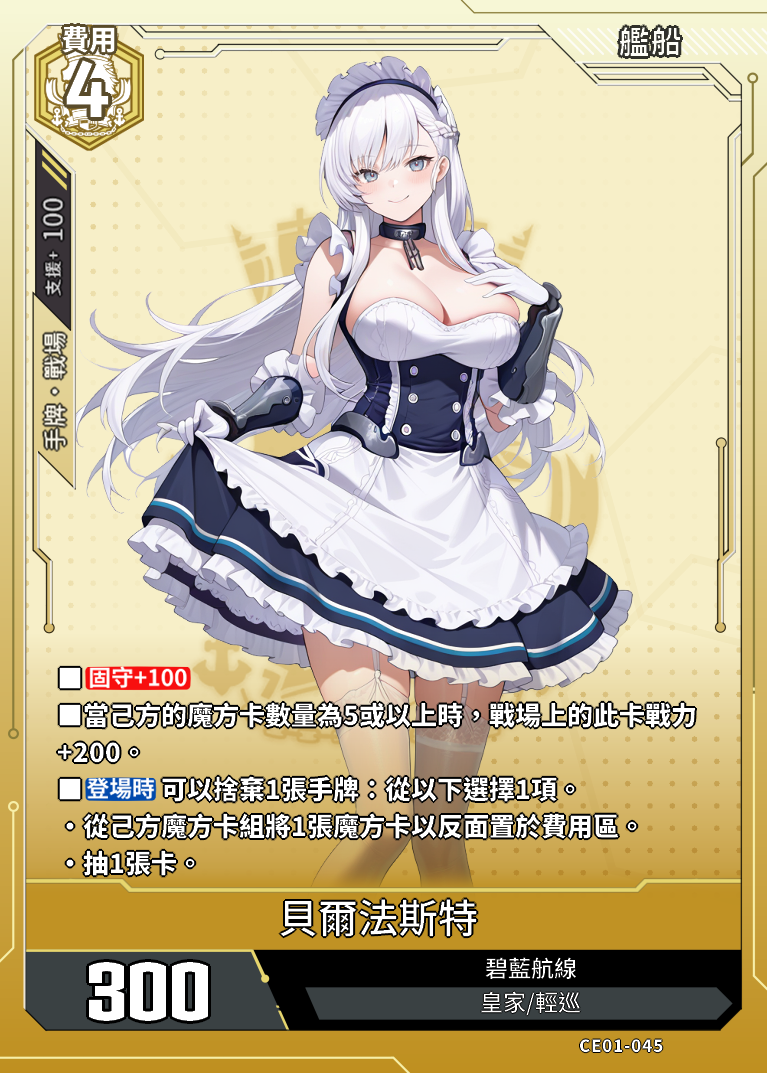
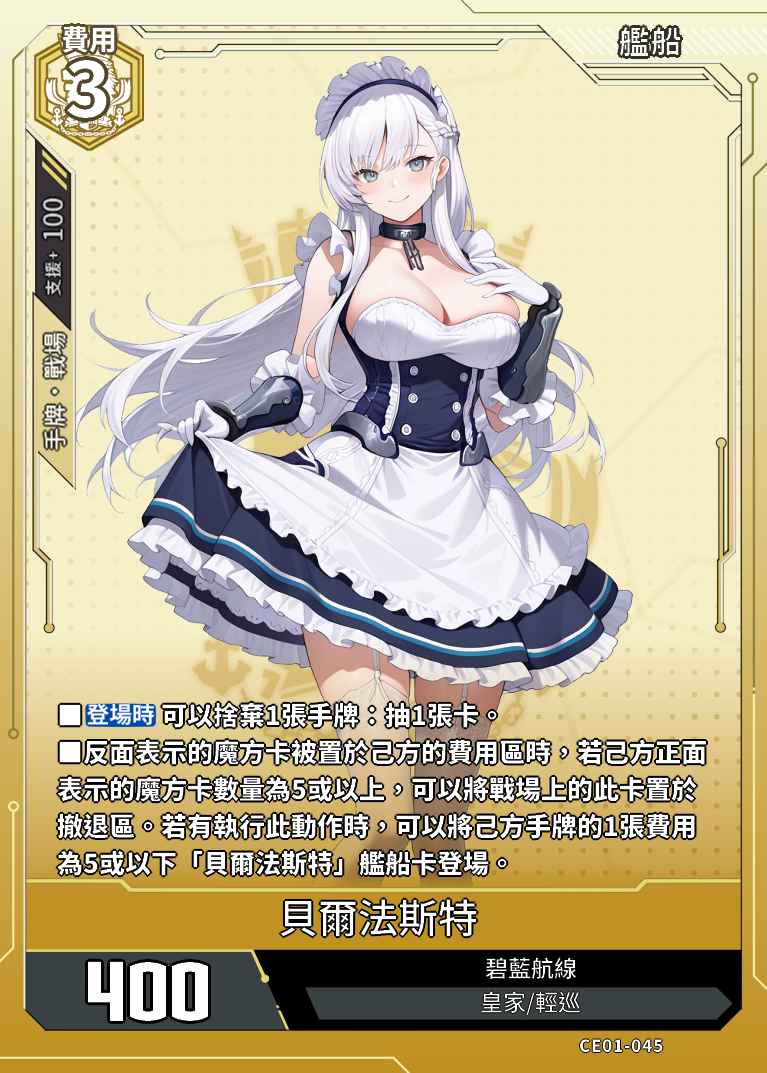
修改華盛頓貝法技能

Changed region(s): [[0.06, 0.6151, 0.9296, 0.8304], [0.06, 0.0308, 0.1499, 0.123], [0.09, 0.8919, 0.1799, 0.9534]]

diff --git a/data.js b/data.js
@@ -22352,15 +22352,15 @@ const cards = [
             "顏　色": "藍",
             "種　類": "艦船卡",
             "費　用": "5",
-            "戰　力": "500",
+            "戰　力": "600",
             "陣　營": "白鷹",
             "艦船類型": "戰列",
             "罕　貴": "-",
             "勢　力": "碧藍航線",
-            "支援範圍": "手牌·戰場",
+            "支援範圍": "戰場",
             "支援值": "100"
         },
-        "card_effect": "■【遠程】【固守+100】■【登場時】當己方的旗艦卡為《白鷹》卡牌時，可以將1張作為己方的旗艦耐久的卡牌加入手牌。若有執行此動作時，本回合中，此卡可以攻擊對方處於激活狀態的卡牌。■【己方回合結束時】將此卡轉為激活狀態。",
+        "card_effect": "■【登場時】可以將己方戰場上除「華盛頓」以外的1張費用為5或以下的《白鷹》艦船卡彈回手牌。若有執行此動作時，本回合中，位於前排的此卡可以攻擊對方處於激活狀態的艦船卡。■【己方回合結束時】將此卡轉為激活狀態。",
         "acquisition_method": "CE01"
     },
 	{
@@ -22731,8 +22731,8 @@ const cards = [
         "attributes": {
             "顏　色": "黃",
             "種　類": "艦船卡",
-            "費　用": "4",
-            "戰　力": "300",
+            "費　用": "3",
+            "戰　力": "400",
             "陣　營": "皇家",
             "艦船類型": "輕巡",
             "罕　貴": "-",
@@ -22740,7 +22740,7 @@ const cards = [
             "支援範圍": "手牌·戰場",
             "支援值": "100"
         },
-        "card_effect": "■【固守+100】■當己方的魔方卡數量為5或以上時，戰場上的此卡戰力+200。■【登場時】可以捨棄1張手牌：從以下選擇1項。・從己方魔方卡組將1張魔方卡以反面置於費用區。・抽1張卡。",
+        "card_effect": "■【登場時】可以捨棄1張手牌：抽1張卡。■反面表示的魔方卡被置於己方的費用區時，若己方正面表示的魔方卡數量為5或以上，可以將戰場上的此卡置於撤退區。若有執行此動作時，可以將己方手牌的1張費用為5或以下「貝爾法斯特」艦船卡登場。",
         "acquisition_method": "CE01"
     },
 	{
